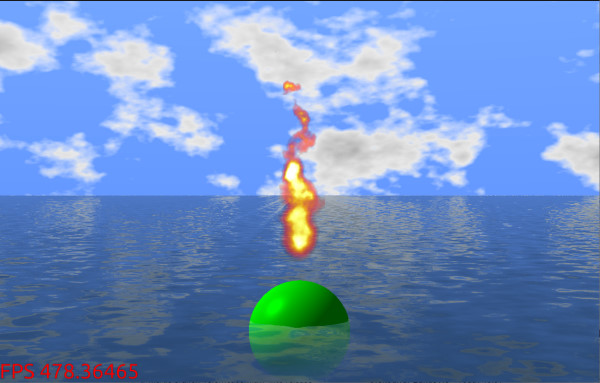
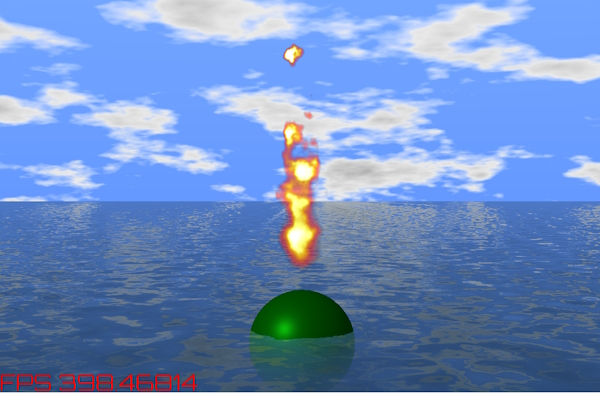
Updated readme for v0.3.0

diff --git a/README.md b/README.md
@@ -1,30 +1,41 @@
 # ![Korender](doc/korender32.png) korender
 [![Maven Central](https://maven-badges.herokuapp.com/maven-central/com.github.zakgof/korender/badge.svg)](https://maven-badges.herokuapp.com/maven-central/com.github.zakgof/korender)
-[![Kotlin](https://img.shields.io/badge/kotlin-2.0.0-278ec7.svg?logo=kotlin)](http://kotlinlang.org)
+[![Kotlin](https://img.shields.io/badge/kotlin-2.1.0-278ec7.svg?logo=kotlin)](http://kotlinlang.org)
+
+![wasm](https://img.shields.io/badge/wasm-624FE8)
 ![android](https://img.shields.io/badge/android-136F63)
 ![windows](https://img.shields.io/badge/windows-3F88C5)
 ![linux](https://img.shields.io/badge/linux-FFBA08)
 
-Kotlin Multiplatform 3D graphics rendering engine based on OpenGL / OpenGL ES.
+Kotlin Multiplatform 3D graphics rendering engine based on OpenGL / OpenGL ES / WebGL.
 
 Korender uses declarative approach that seamlessly integrates 3D viewport into Compose Multiplatform UI. 
 Same Korender code runs on all supported platforms.
 
 ````kotlin
 @Composable
-fun App() = Korender {
+fun App() = Korender(appResourceLoader = { Res.readBytes(it) }) {
+  camera = camera(Vec3(0f, 5f, 30f), -1.z, 1.y)
   Frame {
-    Camera(DefaultCamera(Vec3(0f, 5f, 30f), -1.z, 1.y))
     Pass {
-      Sky(sky(FastCloud))
-      Renderable(standart(FixedColor) { color = Green }, mesh = sphere(2f), transform = translate(-0.5f.y))
+      DirectionalLight(Vec3(1f, -1f, -1f))
+      Sky(fastCloudSky())
+      Renderable(
+        standart {
+          baseColor = Green
+          pbr.metallic = 0.3f
+          pbr.roughness = 0.5f
+        },
+        mesh = sphere(2f),
+        transform = translate(-0.5f.y)
+      )
     }
     Pass {
-      Screen(effect(Water), sky(FastCloud))
-      Billboard(effect(Fire) { yscale = 10f; xscale = 2f }, position = 6.y, transparent = true)
+      Screen(water(), fastCloudSky())
+      Billboard(fire { yscale = 10f; xscale = 2f }, position = 6.y, transparent = true)
       Gui {
         Filler()
-        Text(text = "FPS ${frameInfo.avgFps}", height = 50,  color = Red, font = "/ubuntu.ttf", id = "fps")
+        Text(text = "FPS ${frameInfo.avgFps}", height = 50, color = Red, fontResource = "font/orbitron.ttf", id = "fps")
       }
     }
   }
@@ -32,23 +43,34 @@ fun App() = Korender {
 ````
 ![Korender](doc/quickstart.jpg)
 
-Korender is BETA - any APIs may change without notice.
+Live web demo: https://zakgof.github.io/projects/korender/wasm/
+
+Korender is BETA - APIs may change without notice.
 
 ### Supported platforms
-- Desktop (Windows/Linux) - based on LWJGL
-- Android - based on OpenGL ES API
+| Platform                                            | 3D API      |
+|-----------------------------------------------------|-------------|
+| Desktop (Windows/Linux)                             | OpenGL 3.3  |
+| Android                                             | OpenGL ES 3 |
+| Web ![new](https://img.shields.io/badge/new-FF4040) | WebGL 2     |
+|                                                     |             |
+
+### Examples showcase app
+
+- Web live demo https://zakgof.github.io/projects/korender/wasm/
+- JVM Desktop Windows: https://github.com/zakgof/korender/releases/download/0.3.0/korender-demo-0.3.0.zip
+- Android APK: https://github.com/zakgof/korender/releases/download/0.3.0/korender-demo-0.3.0.apk
+
+[Examples source code](https://github.com/zakgof/korender/tree/main/korender-framework/examples/src/commonMain/kotlin)
 
 ### Features
+- Physically Based Rendering (PBR) metallic-roughness model ![new](https://img.shields.io/badge/new-FF4040)
 - Rendering opaque and transparent objects
-- Diffuse, specular and ambient lighting (directional light)
+- Directional and point lights
 - Projection shadow maps with percentage close soft shadows
-- Texturing:
-  - uv mapped
-  - triplanar
-  - detail
-- Bump mapping
+- Texturing with normal mapping support
 - Predefined and custom meshes
-- Wavefront .obj model file loading
+- Wavefront .obj and .gtlf/.glb file loading ![new](https://img.shields.io/badge/new-FF4040)
 - Billboards (sprites)
 - Batching (instancing)
 - Simple heightfield (terrain)
@@ -68,17 +90,10 @@ Korender is BETA - any APIs may change without notice.
 or, create an application from scratch:
 
 - Generate a new KMP application using [Kotlin Multiplatform Wizard](https://kmp.jetbrains.com/). Select Android and Desktop platforms.
-- Add Korender dependency `com.github.zakgof:korender:0.2.0`
+- Add Korender dependency `com.github.zakgof:korender:0.3.0`
 - Add the above code to commonMain
 - Run on desktop: `.\gradlew composeApp:run`
 
-
-### Examples showcase app
-
-- JVM Desktop Windows: https://github.com/zakgof/korender/releases/download/0.2.0/korender-demo-0.2.0.zip
-- Android APK: https://github.com/zakgof/korender/releases/download/0.2.0/korender-demo-0.2.0.apk
-
-[Examples source code](https://github.com/zakgof/korender/tree/main/korender-framework/examples/src/commonMain/kotlin)
 
 ### Further reading
 Explore the [Korender Wiki](https://github.com/zakgof/korender/wiki)
